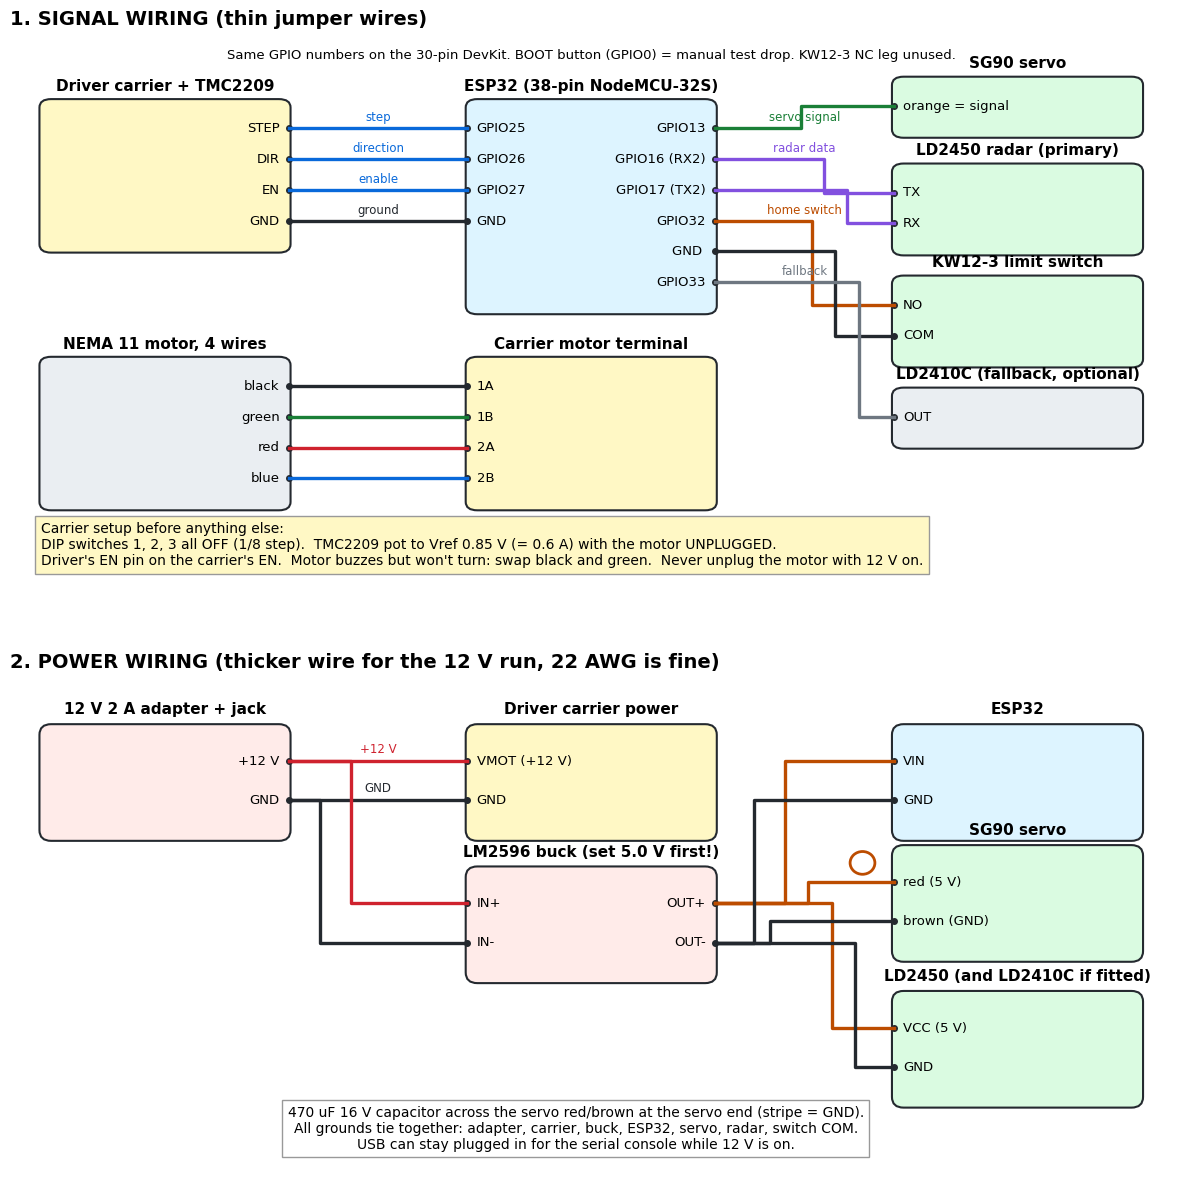
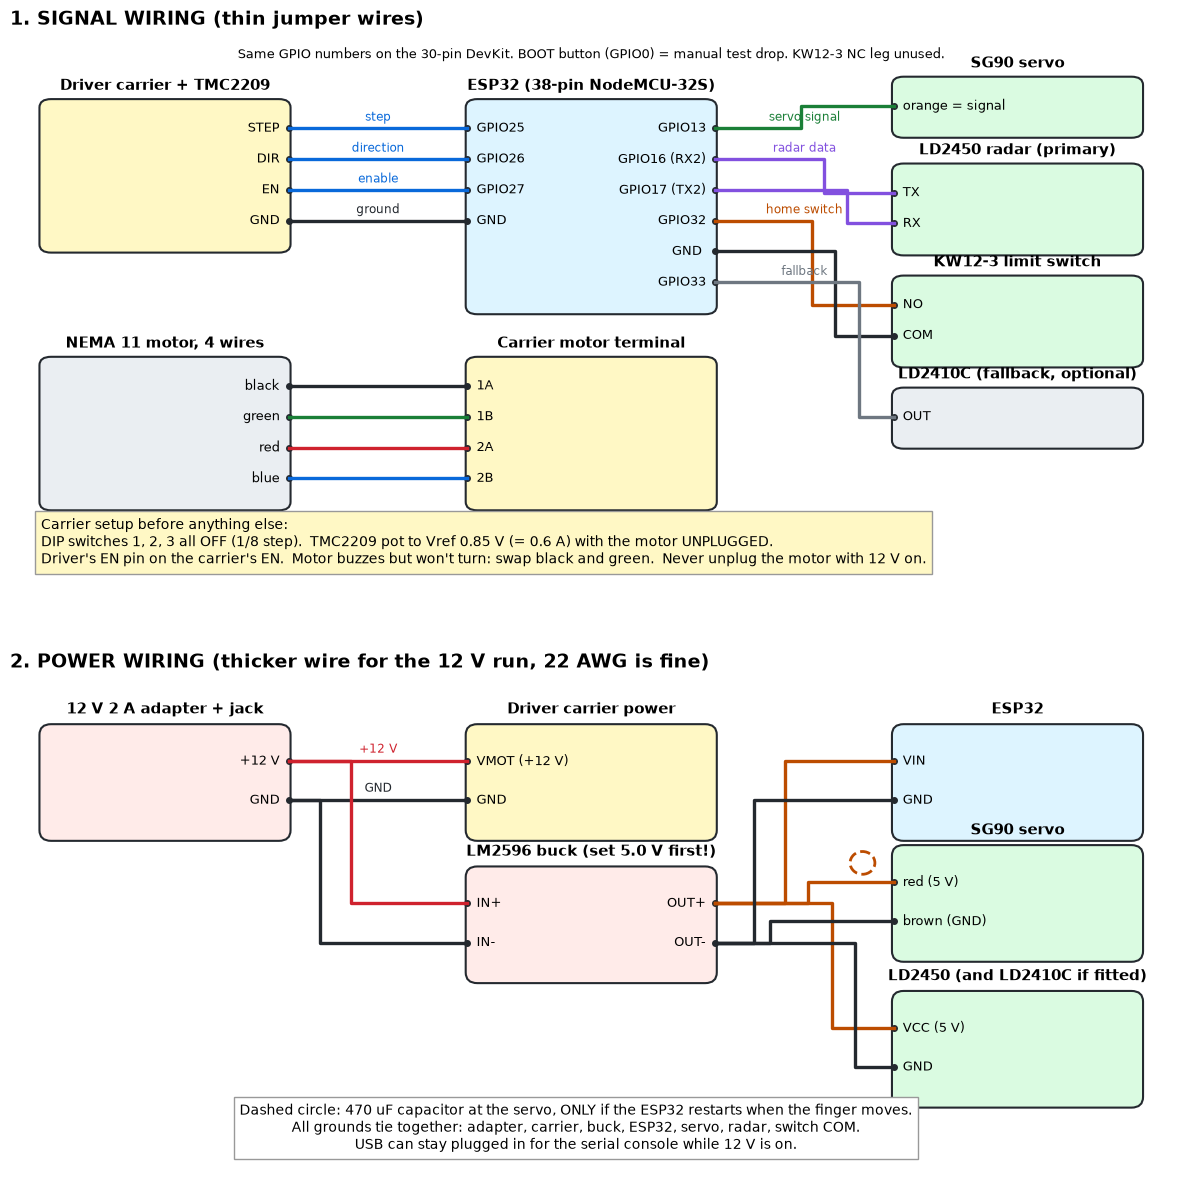
Wiring picture: servo capacitor drawn dashed and marked only-if

diff --git a/docs/diagrams.py b/docs/diagrams.py
@@ -67,8 +67,8 @@ def wiring():
     line(a2, psu["GND"], buck["IN-"], BLK, None, mid=4.0)
     for dst, bx in [((e5["VIN"]), 10.0), ((s5["red (5 V)"]), 10.3), ((r5["VCC (5 V)"]), 10.6)]: line(a2, buck["OUT+"], dst, ORG, None, mid=bx)
     for dst, bx in [((e5["GND"]), 9.6), ((s5["brown (GND)"]), 9.8), ((r5["GND"]), 10.9)]: line(a2, buck["OUT-"], dst, BLK, None, mid=bx)
-    a2.add_patch(Circle((11.0, 4.37), 0.16, fc="white", ec=ORG, lw=2))
-    a2.text(7.3, 0.35, "470 uF 16 V capacitor across the servo red/brown at the servo end (stripe = GND).\nAll grounds tie together: adapter, carrier, buck, ESP32, servo, radar, switch COM.\nUSB can stay plugged in for the serial console while 12 V is on.",
+    a2.add_patch(Circle((11.0, 4.37), 0.16, fc="white", ec=ORG, lw=2, ls="--"))
+    a2.text(7.3, 0.35, "Dashed circle: 470 uF capacitor at the servo, ONLY if the ESP32 restarts when the finger moves.\nAll grounds tie together: adapter, carrier, buck, ESP32, servo, radar, switch COM.\nUSB can stay plugged in for the serial console while 12 V is on.",
             fontsize=10, ha="center", bbox=dict(fc="white", ec="0.6"))
     fig.savefig(os.path.join(IMG, "wiring.png"), dpi=100, bbox_inches="tight"); plt.close(fig)
 
